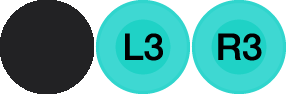
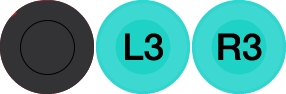
dpad

diff --git a/website/Assets/Images/DS4White/white.css b/website/Assets/Images/DS4White/white.css
@@ -5,3 +5,7 @@
 .ds4.white .stick {
     background-image: url(sticks.png);
 }
+
+.ds4.white .face {
+    background-image: url(dpad.png);
+}
